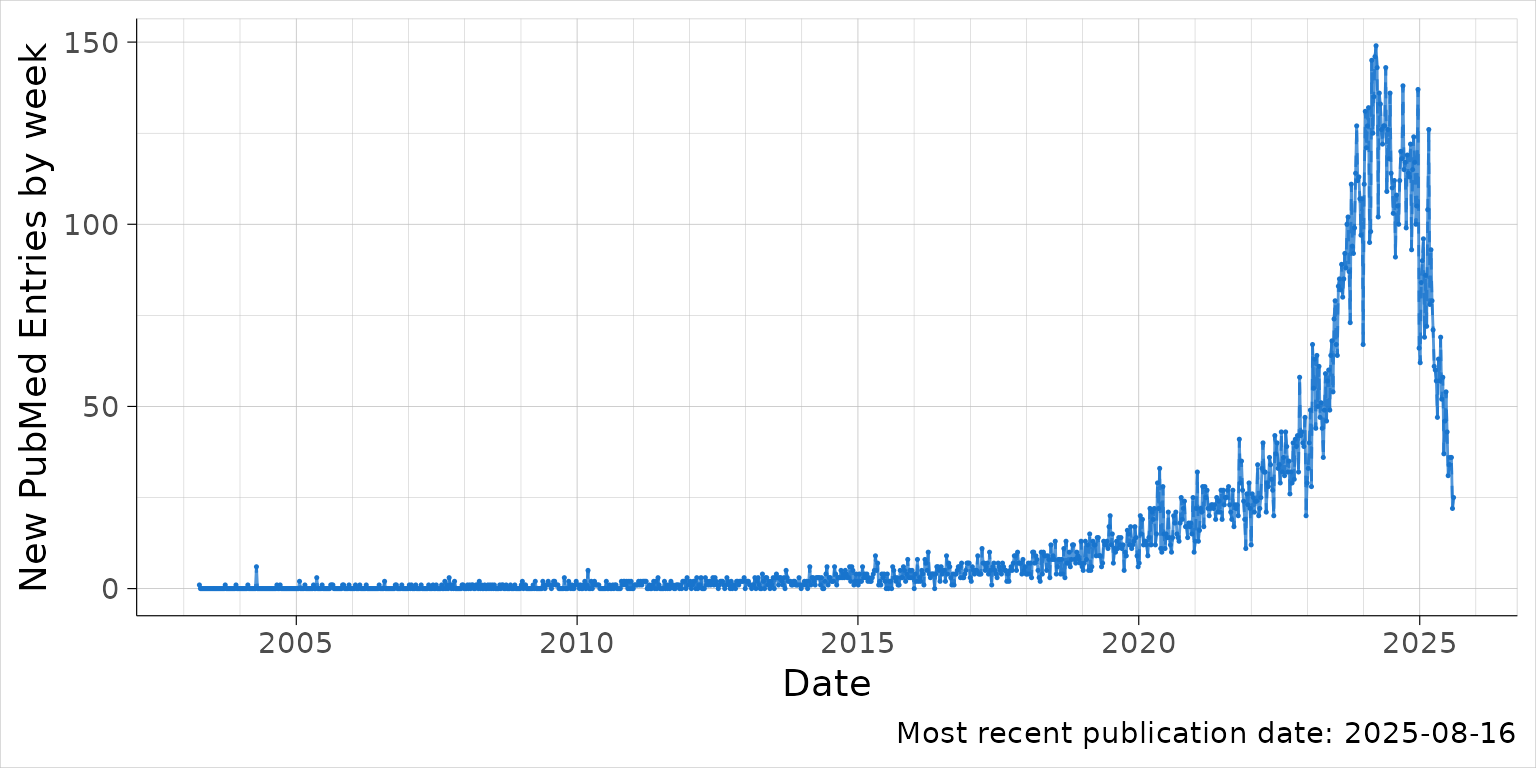
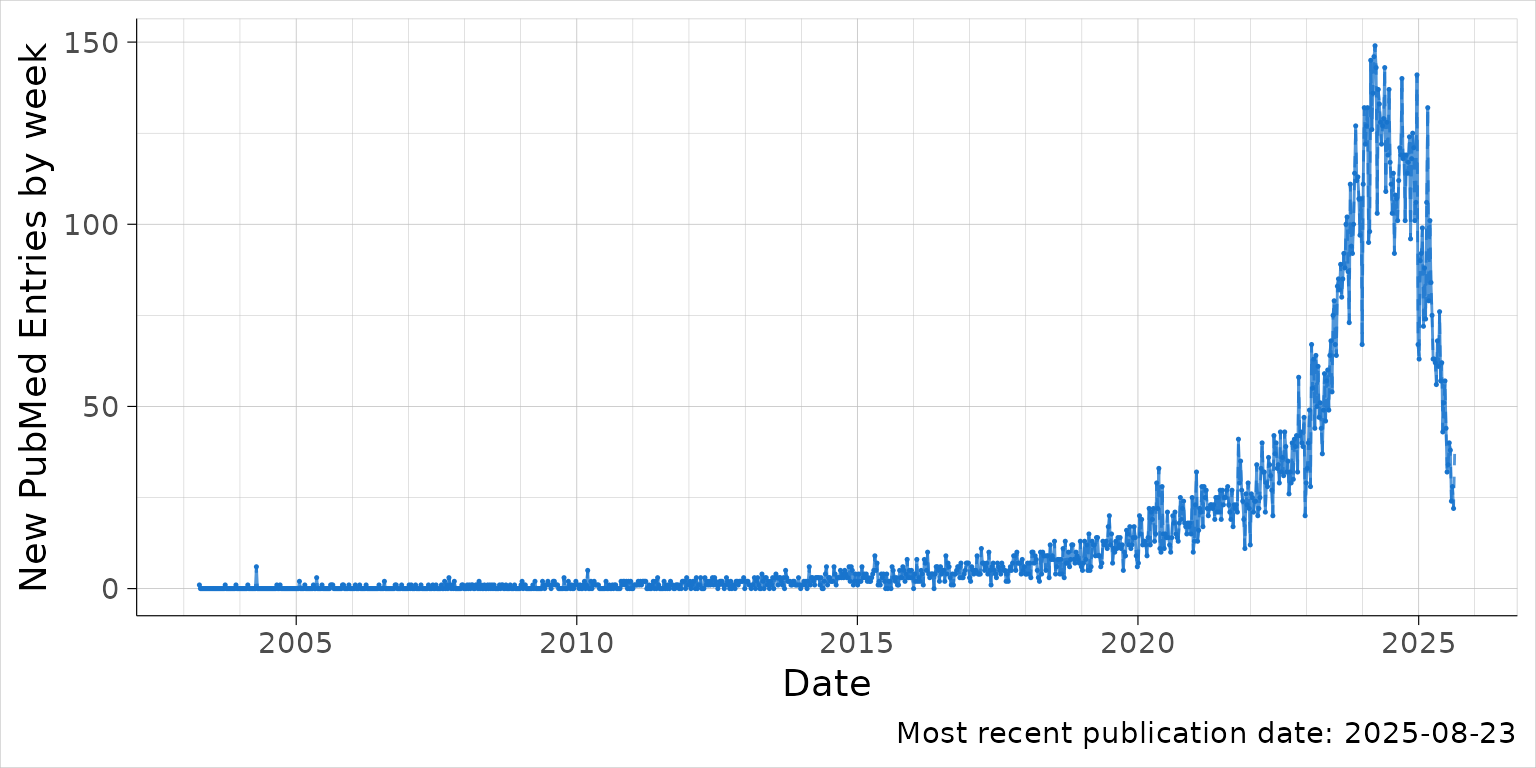
Deploying to gh-pages from @ explodecomputer/PubmedPlot@068eacdf5acdc66ea1c8a3d5640505ac4a8cb4ee 🚀

diff --git a/articles/mr.html b/articles/mr.html
@@ -151,39 +151,39 @@
 <span><span class="co">#&gt; Fetching records 1 to 384 </span></span>
 <span><span class="co">#&gt; Searching for year: 2019 </span></span>
 <span><span class="co">#&gt; Search term: "Mendelian randomisation" [tiab] OR "Mendelian randomization" [tiab] AND ("2019/01/01"[dp] : "2019/12/31"[dp]) </span></span>
-<span><span class="co">#&gt; Found 546 articles matching the search term.</span></span>
+<span><span class="co">#&gt; Found 547 articles matching the search term.</span></span>
 <span><span class="co">#&gt; Fetching records 1 to 500 </span></span>
-<span><span class="co">#&gt; Fetching records 501 to 546 </span></span>
+<span><span class="co">#&gt; Fetching records 501 to 547 </span></span>
 <span><span class="co">#&gt; Searching for year: 2020 </span></span>
 <span><span class="co">#&gt; Search term: "Mendelian randomisation" [tiab] OR "Mendelian randomization" [tiab] AND ("2020/01/01"[dp] : "2020/12/31"[dp]) </span></span>
-<span><span class="co">#&gt; Found 838 articles matching the search term.</span></span>
+<span><span class="co">#&gt; Found 840 articles matching the search term.</span></span>
 <span><span class="co">#&gt; Fetching records 1 to 500 </span></span>
-<span><span class="co">#&gt; Fetching records 501 to 838 </span></span>
+<span><span class="co">#&gt; Fetching records 501 to 840 </span></span>
 <span><span class="co">#&gt; Searching for year: 2021 </span></span>
 <span><span class="co">#&gt; Search term: "Mendelian randomisation" [tiab] OR "Mendelian randomization" [tiab] AND ("2021/01/01"[dp] : "2021/12/31"[dp]) </span></span>
-<span><span class="co">#&gt; Found 1223 articles matching the search term.</span></span>
+<span><span class="co">#&gt; Found 1228 articles matching the search term.</span></span>
 <span><span class="co">#&gt; Fetching records 1 to 500 </span></span>
 <span><span class="co">#&gt; Fetching records 501 to 1000 </span></span>
-<span><span class="co">#&gt; Fetching records 1001 to 1223 </span></span>
+<span><span class="co">#&gt; Fetching records 1001 to 1228 </span></span>
 <span><span class="co">#&gt; Searching for year: 2022 </span></span>
 <span><span class="co">#&gt; Search term: "Mendelian randomisation" [tiab] OR "Mendelian randomization" [tiab] AND ("2022/01/01"[dp] : "2022/12/31"[dp]) </span></span>
-<span><span class="co">#&gt; Found 1652 articles matching the search term.</span></span>
+<span><span class="co">#&gt; Found 1654 articles matching the search term.</span></span>
 <span><span class="co">#&gt; Fetching records 1 to 500 </span></span>
 <span><span class="co">#&gt; Fetching records 501 to 1000 </span></span>
 <span><span class="co">#&gt; Fetching records 1001 to 1500 </span></span>
-<span><span class="co">#&gt; Fetching records 1501 to 1652 </span></span>
+<span><span class="co">#&gt; Fetching records 1501 to 1654 </span></span>
 <span><span class="co">#&gt; Searching for year: 2023 </span></span>
 <span><span class="co">#&gt; Search term: "Mendelian randomisation" [tiab] OR "Mendelian randomization" [tiab] AND ("2023/01/01"[dp] : "2023/12/31"[dp]) </span></span>
-<span><span class="co">#&gt; Found 2978 articles matching the search term.</span></span>
+<span><span class="co">#&gt; Found 2979 articles matching the search term.</span></span>
 <span><span class="co">#&gt; Fetching records 1 to 500 </span></span>
 <span><span class="co">#&gt; Fetching records 501 to 1000 </span></span>
 <span><span class="co">#&gt; Fetching records 1001 to 1500 </span></span>
 <span><span class="co">#&gt; Fetching records 1501 to 2000 </span></span>
 <span><span class="co">#&gt; Fetching records 2001 to 2500 </span></span>
-<span><span class="co">#&gt; Fetching records 2501 to 2978 </span></span>
+<span><span class="co">#&gt; Fetching records 2501 to 2979 </span></span>
 <span><span class="co">#&gt; Searching for year: 2024 </span></span>
 <span><span class="co">#&gt; Search term: "Mendelian randomisation" [tiab] OR "Mendelian randomization" [tiab] AND ("2024/01/01"[dp] : "2024/12/31"[dp]) </span></span>
-<span><span class="co">#&gt; Found 6428 articles matching the search term.</span></span>
+<span><span class="co">#&gt; Found 6434 articles matching the search term.</span></span>
 <span><span class="co">#&gt; Fetching records 1 to 500 </span></span>
 <span><span class="co">#&gt; Fetching records 501 to 1000 </span></span>
 <span><span class="co">#&gt; Fetching records 1001 to 1500 </span></span>
@@ -196,10 +196,10 @@
 <span><span class="co">#&gt; Fetching records 4501 to 5000 </span></span>
 <span><span class="co">#&gt; Fetching records 5001 to 5500 </span></span>
 <span><span class="co">#&gt; Fetching records 5501 to 6000 </span></span>
-<span><span class="co">#&gt; Fetching records 6001 to 6428 </span></span>
+<span><span class="co">#&gt; Fetching records 6001 to 6434 </span></span>
 <span><span class="co">#&gt; Searching for year: 2025 </span></span>
 <span><span class="co">#&gt; Search term: "Mendelian randomisation" [tiab] OR "Mendelian randomization" [tiab] AND ("2025/01/01"[dp] : "2025/12/31"[dp]) </span></span>
-<span><span class="co">#&gt; Found 4417 articles matching the search term.</span></span>
+<span><span class="co">#&gt; Found 4629 articles matching the search term.</span></span>
 <span><span class="co">#&gt; Fetching records 1 to 500 </span></span>
 <span><span class="co">#&gt; Fetching records 501 to 1000 </span></span>
 <span><span class="co">#&gt; Fetching records 1001 to 1500 </span></span>
@@ -208,7 +208,8 @@
 <span><span class="co">#&gt; Fetching records 2501 to 3000 </span></span>
 <span><span class="co">#&gt; Fetching records 3001 to 3500 </span></span>
 <span><span class="co">#&gt; Fetching records 3501 to 4000 </span></span>
-<span><span class="co">#&gt; Fetching records 4001 to 4417</span></span>
+<span><span class="co">#&gt; Fetching records 4001 to 4500 </span></span>
+<span><span class="co">#&gt; Fetching records 4501 to 4629</span></span>
 <span><span class="co"># write_json(a, "pubmed_abstracts.json", pretty=TRUE)</span></span>
 <span><span class="va">b</span> <span class="op">&lt;-</span> <span class="fu"><a href="../reference/group_by_time_interval.html">group_by_time_interval</a></span><span class="op">(</span><span class="va">a</span><span class="op">)</span></span>
 <span><span class="va">p</span> <span class="op">&lt;-</span> <span class="fu"><a href="../reference/plot_time_interval.html">plot_time_interval</a></span><span class="op">(</span><span class="va">b</span><span class="op">)</span></span></code></pre></div>
